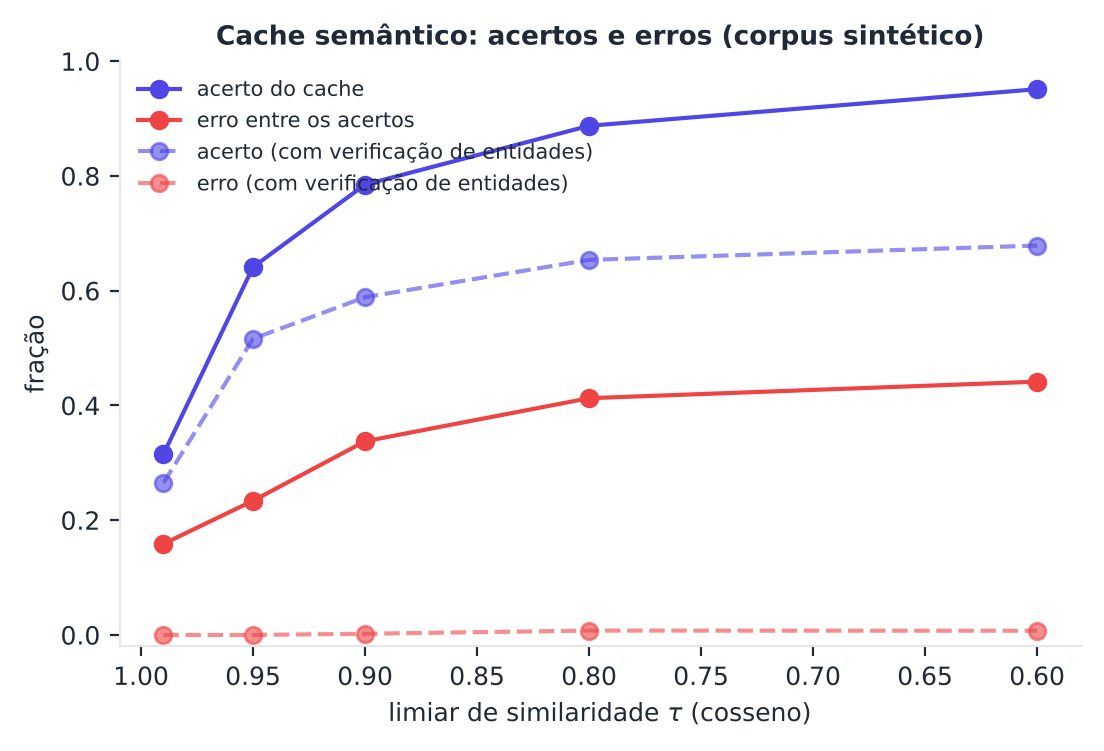
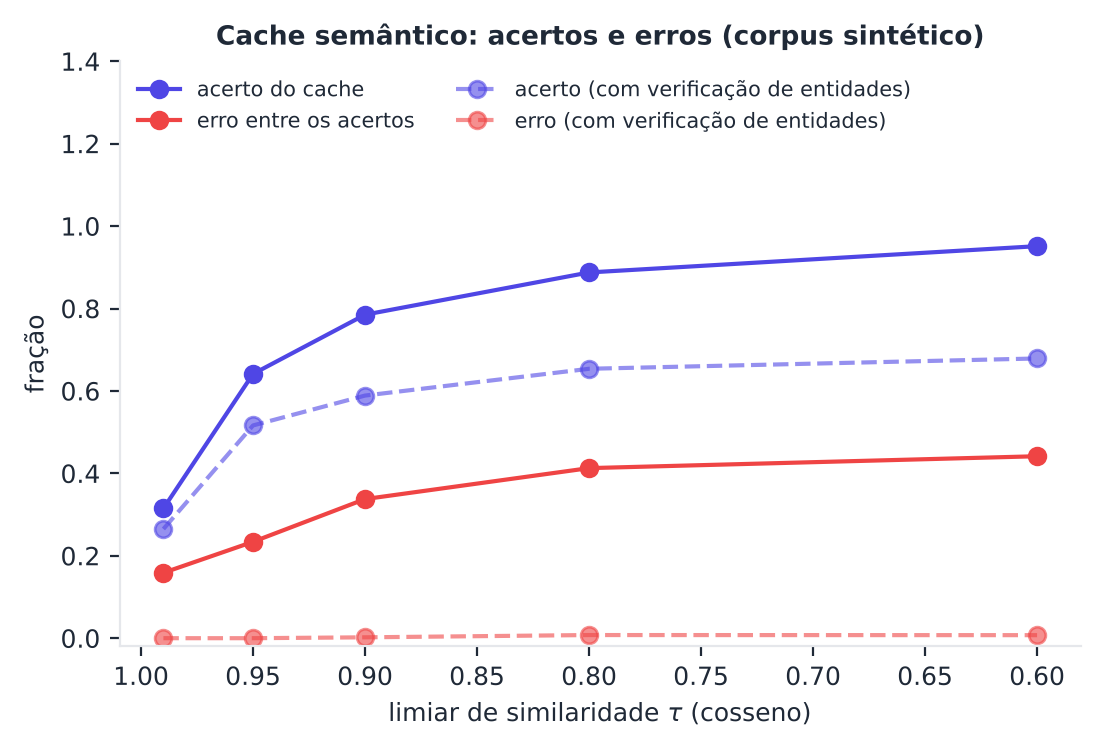
Livro LLM: progresso dos capítulos 14 e 15
Claude-Session: https://claude.ai/code/session_01MyK9xUsiCQsd2kvUck6yKF

diff --git a/llm/codigo/figuras/figs_cap15.py b/llm/codigo/figuras/figs_cap15.py
@@ -116,7 +116,7 @@ def cache():
     fig, ax = plt.subplots(figsize=(6.2, 3.8))
     ax.plot(taus, [h for h, _ in a], "o-", c=IND, label="acerto do cache"); ax.plot(taus, [e for _, e in a], "o-", c=RED, label="erro entre os acertos")
     ax.plot(taus, [h for h, _ in b], "o--", c=IND, alpha=.6, label="acerto (com verificação de entidades)"); ax.plot(taus, [e for _, e in b], "o--", c=RED, alpha=.6, label="erro (com verificação de entidades)")
-    ax.invert_xaxis(); ax.set_xlabel("limiar de similaridade $\\tau$ (cosseno)"); ax.set_ylabel("fração"); ax.set_ylim(-0.02, 1); ax.legend(fontsize=7.5, frameon=False, loc="upper left")
+    ax.invert_xaxis(); ax.set_xlabel("limiar de similaridade $\\tau$ (cosseno)"); ax.set_ylabel("fração"); ax.set_ylim(-0.02, 1.4); ax.legend(fontsize=7.5, frameon=False, loc="upper left", ncol=2)
     ax.set_title("Cache semântico: acertos e erros (corpus sintético)", fontsize=9.5); save(fig, "f15_cache")
 
 

diff --git a/llm/codigo/comum/llmdidatico/agente.py b/llm/codigo/comum/llmdidatico/agente.py
@@ -56,6 +56,8 @@ def calcular_seguro(expressao: str):
         arvore = ast.parse(expressao.strip(), mode="eval")
     except SyntaxError as e:
         raise ValueError(f"sintaxe inválida: {e.msg}") from None
+    except (RecursionError, MemoryError):
+        raise ValueError("expressão aninhada demais") from None
 
     def ev(no):
         if isinstance(no, ast.Expression):
@@ -77,7 +79,10 @@ def calcular_seguro(expressao: str):
             return _UN[type(no.op)](ev(no))
         raise ValueError(f"elemento não permitido: {type(no).__name__}")
 
-    r = ev(arvore)
+    try:
+        r = ev(arvore)
+    except RecursionError:                          # aninhamento profundo (ex.: muitos sinais de menos seguidos)
+        raise ValueError("expressão aninhada demais") from None
     return round(r, 10) if isinstance(r, float) else r
 
 
